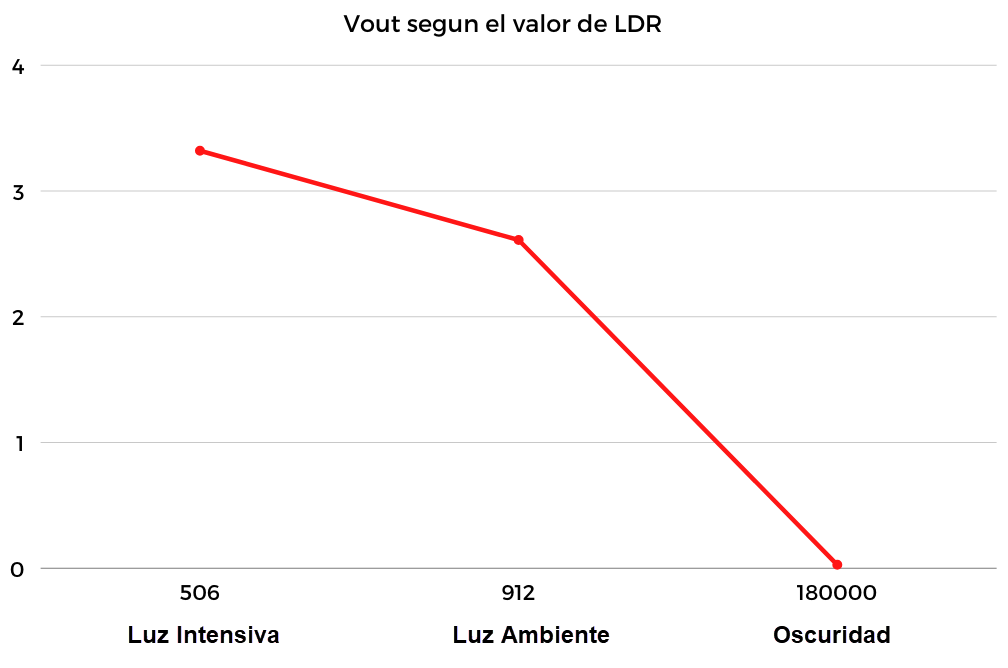
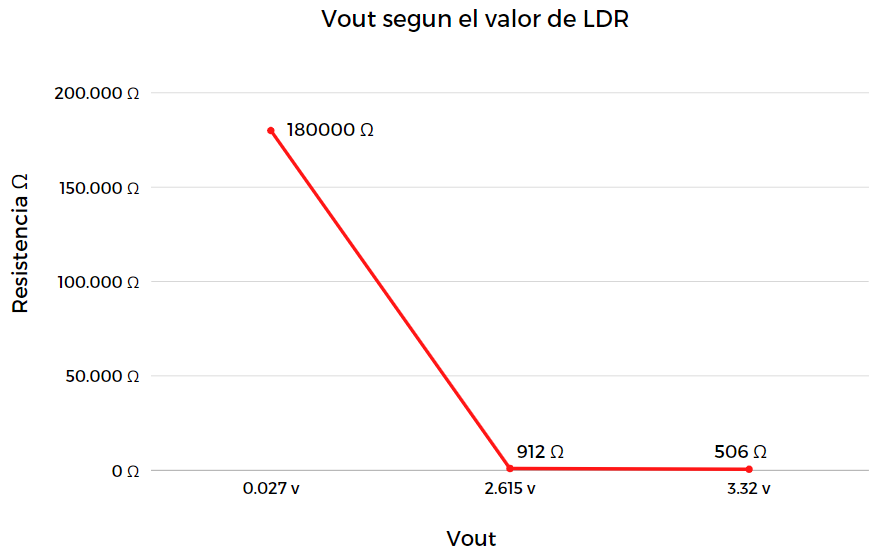
Cambio 10

diff --git a/docs/A1.2_JoseAlfredoVenegasMedina_Verde.md b/docs/A1.2_JoseAlfredoVenegasMedina_Verde.md
@@ -82,16 +82,16 @@ Realizar un sensor medidor de luz (lux) a través de un circuito electrónico, u
 + Vout = (R2 * Vin)/(R1 + R2)
 + Vout = (1000 ohms * 5v) / (506 ohms + 1000 ohms)
 + Vout = (5000 ohms v) / (1506 ohms)
-+ Vout = 3.32v  
++ Vout = 3.32005v  
   
 
 7. Calcule el **valor de exactitud** de voltaje entre lo teórico y lo medido para cada condición  y registre en la tabla correspondiente.
 
     | Condicion          |  Impedancia en fotoresistencia | Voltaje Vout teórico | Voltaje Vout medido | %  V.Medido/ V.Teórico | 
     | --------------- | ----------------------------- | -------------------- | ------------------- | ---------------------- | 
-    | Ausencia de luz | 180 k ohms  | 27.6 mv   | 27.7 mv   | 1.0036 %  | 
-    | Luz ambiental   | 912 ohms    | 2.615 v    | 2.61 v    | 0.9980 % | 
-    | Luz intensa     | 506 ohms    | 3.32 v    | 3.32 v    | 1 %       |
+    | Ausencia de luz | 180 k ohms  | 27.6 mv   | 27.7 mv   | 100.36 %  | 
+    | Luz ambiental   | 912 ohms    | 2.615 v   | 2.61 v    | 99.80 %   | 
+    | Luz intensa     | 506 ohms    | 3.32005 v | 3.32 v    | 100.001 % |
   
     <p align="center"> 
         <img alt="Voltajes" src="../img/A.1.2%20-%20Voltajes.jpg" >
